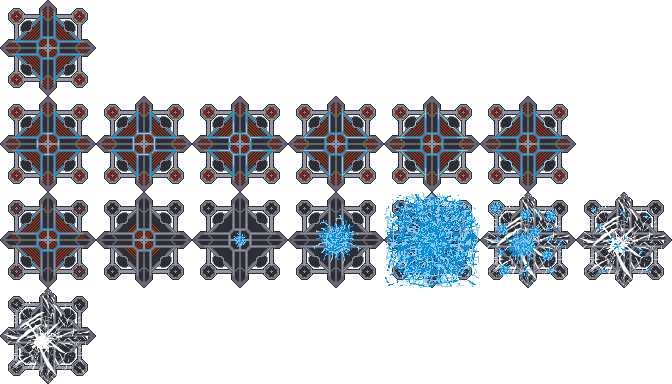
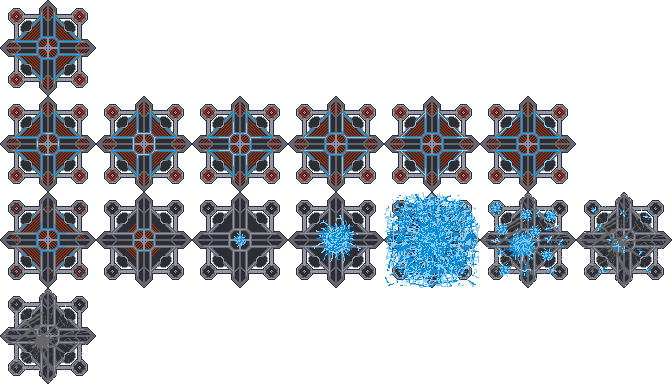
HQArt & Player Spawn

Changed region(s): [[0.0, 0.75, 0.125, 1.0], [0.875, 0.5, 1.0, 0.7188], [0.7188, 0.5312, 0.8438, 0.7188]]

diff --git a/SecondSemesterExamProject/Components/Tower/HQ.cs b/SecondSemesterExamProject/Components/Tower/HQ.cs
@@ -43,8 +43,8 @@ namespace TankGame
         protected override void CreateAnimation()
         {
             //HQ Animation
-            animator.CreateAnimation("Idle", new Animation(6, 96, 0, 96, 96, 8, Vector2.Zero));
-            animator.CreateAnimation("Death", new Animation(7, 192, 0, 96, 96, 6, Vector2.Zero));
+            animator.CreateAnimation("Idle", new Animation(6, 96, 0, 96, 96, 6, Vector2.Zero));
+            animator.CreateAnimation("Death", new Animation(7, 192, 0, 96, 96, 4, Vector2.Zero));
             base.CreateAnimation();
         }
 

diff --git a/SecondSemesterExamProject/GameWorld.cs b/SecondSemesterExamProject/GameWorld.cs
@@ -99,7 +99,7 @@ namespace TankGame
             //Adds test player
             GameObject go;
             go = new GameObject();
-            go.Transform.Position = new Vector2(20, 20);
+            go.Transform.Position = new Vector2(650, 350);
             go.AddComponent(new SpriteRenderer(go, Constant.tankSpriteSheet, 0.2f));
             go.AddComponent(new Animator(go));
             go.AddComponent(new Tank(go, Controls.WASD, Constant.tankHealth, Constant.tankMoveSpeed,
